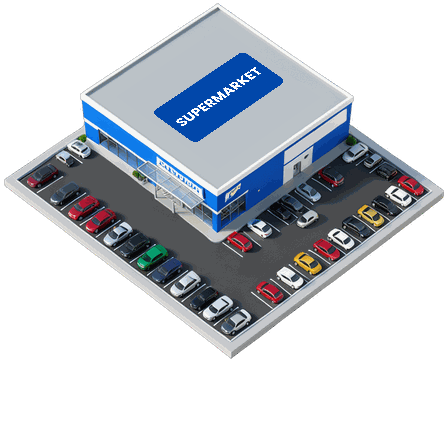
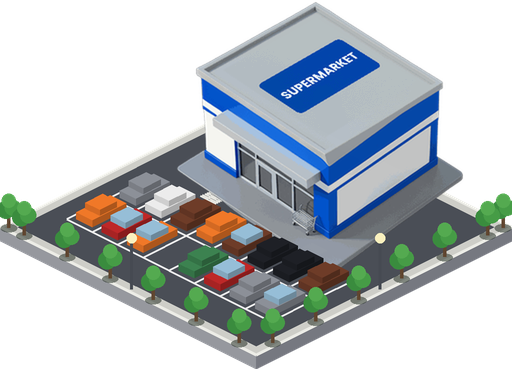
Commerces : parcelle dessinée en vrai 2:1 (drugstore 2x2, supermarché 2x2, hypermarché 3x3), bâtiments seuls bat_*, parcelle.py
Claude-Session: https://claude.ai/code/session_01GArnKYW6kkDaRqVDc5pfp5

diff --git a/tools/factory_ai/parcelle.py b/tools/factory_ai/parcelle.py
@@ -1,0 +1,189 @@
+#!/usr/bin/env python3
+"""Compose un bâtiment seul (assets/factory_hd/bat_<nom>.png) sur une parcelle dessinée en vrai 2:1.
+
+Usage : python3 parcelle.py <nom> <cases> <v0> <v1> [graine]
+  nom   : drugstore | supermarche | hypermarche (lit bat_<nom>.png, écrit <nom>.png, ombres/, ancres.json)
+  cases : côté de la parcelle en cases (losange de cases*256 x cases*128, rapport exactement 2:1)
+  v0 v1 : bande occupée par le bâtiment, en fraction du côté (0 = coin haut)
+"""
+import sys, os, json, random, math
+import numpy as np
+from PIL import Image, ImageDraw, ImageFilter
+
+ICI = os.path.dirname(os.path.abspath(__file__))
+D = os.path.join(ICI, '..', '..', 'assets', 'factory_hd')
+CASE_W = 256          # largeur d'une case (losange 2:1, comme la ville)
+SS = 2                # suréchantillonnage pour des bords nets
+
+
+def main():
+    nom, cases, v0, v1 = sys.argv[1], int(sys.argv[2]), float(sys.argv[3]), float(sys.argv[4])
+    graine = int(sys.argv[5]) if len(sys.argv) > 5 else 7
+    rnd = random.Random(graine)
+    bat = Image.open(os.path.join(D, 'bat_' + nom + '.png')).convert('RGBA')
+    bb = bat.getchannel('A').point(lambda v: 255 if v > 40 else 0).getbbox()
+    bat = bat.crop(bb)
+
+    Wd, Hd = cases * CASE_W, cases * CASE_W // 2          # losange exact 2:1
+    T = 14                                                # épaisseur de la dalle
+    u0, u1 = 0.05, 0.95
+    # largeur écran de l'emprise du bâtiment : (du + dv) * Wd / 2
+    fw = ((u1 - u0) + (v1 - v0)) * Wd / 2
+    k = fw * 0.86 / bat.width
+    bat = bat.resize((max(1, round(bat.width * k)), max(1, round(bat.height * k))), Image.LANCZOS)
+    haut = bat.height + 20                                # marge au-dessus du losange pour le bâtiment
+    W = Wd
+    H = int(haut + Hd + T)
+    yt = haut                                             # sommet haut du losange dans l'image
+    cx = W / 2
+
+    def P(u, v, z=0):
+        return ((cx + (u - v) * Wd / 2) * SS, (yt + (u + v) * Hd / 2 - z) * SS)
+
+    def poly(d, pts, fill, outline=None):
+        d.polygon(pts, fill=fill, outline=outline)
+
+    img = Image.new('RGBA', (W * SS, H * SS), (0, 0, 0, 0))
+    d = ImageDraw.Draw(img)
+
+    # dalle : flancs (bas-gauche et bas-droit)
+    L, B, R = P(0, 1), P(1, 1), P(1, 0)
+    dn = lambda p, t=T: (p[0], p[1] + t * SS)
+    poly(d, [L, B, dn(B), dn(L)], (150, 152, 158, 255))
+    poly(d, [B, R, dn(R), dn(B)], (118, 120, 128, 255))
+
+    # trottoir (bordure) puis chaussée
+    poly(d, [P(0, 0), P(1, 0), P(1, 1), P(0, 1)], (206, 206, 200, 255))
+    m = 0.035
+    poly(d, [P(m, m), P(1 - m, m), P(1 - m, 1 - m), P(m, 1 - m)], (74, 78, 86, 255))
+    # liseré de bordure
+    for (a, b) in [((0, 0), (1, 0)), ((1, 0), (1, 1)), ((1, 1), (0, 1)), ((0, 1), (0, 0))]:
+        d.line([P(*a), P(*b)], fill=(236, 236, 230, 255), width=3 * SS)
+
+    # zone de stationnement : v de v1+marge à 1-m
+    va, vb = v1 + 0.05, 1 - m - 0.025
+    ua, ub = u0, u1
+    bay = 0.20 / cases
+    car_l = 0.34 / cases                  # longueur d'une place en unités v
+    aisle = 0.36 / cases
+    # rangées : [rang de places][allée][rang de places] répétées
+    rows = []
+    v = va
+    while v + car_l <= vb:
+        rows.append(v)
+        v += car_l
+        if len(rows) % 2 == 0:
+            v += aisle
+    # lignes de places
+    wl = (236, 236, 236, 255)
+    nb = int((ub - ua) / bay)
+    ua = ua + ((ub - ua) - nb * bay) / 2
+    for vr in rows:
+        for i in range(nb + 1):
+            u = ua + i * bay
+            d.line([P(u, vr), P(u, vr + car_l)], fill=wl, width=2 * SS)
+        d.line([P(ua, vr + car_l), P(ua + nb * bay, vr + car_l)], fill=wl, width=2 * SS)
+    # passages piétons vers le bâtiment (bandes blanches)
+    for uc in (0.30, 0.70):
+        for j in range(5):
+            vv = v1 + 0.005 + j * 0.008
+            d.line([P(uc - 0.03, vv), P(uc + 0.03, vv)], fill=(230, 230, 224, 255), width=2 * SS)
+
+    # ombre portée du bâtiment (sur la chaussée)
+    # (l'ombre finale est calculée à part)
+
+    # bâtiment : base posée au centre de l'emprise
+    fx = cx + ((u0 + u1) / 2 - (v0 + v1) / 2) * Wd / 2
+    fy = yt + (u1 + v1) * Hd / 2 - 4
+    bx, by = round(fx - bat.width / 2), round(fy - bat.height)
+    img_b = Image.new('RGBA', img.size, (0, 0, 0, 0))
+    img_b.alpha_composite(bat.resize((bat.width * SS, bat.height * SS), Image.LANCZOS), (bx * SS, by * SS))
+
+    # voitures (cubes iso), triées par profondeur
+    pal = [(236, 236, 236), (30, 32, 38), (140, 144, 152), (190, 40, 40), (40, 80, 170), (220, 190, 50),
+           (60, 130, 80), (200, 200, 205), (110, 60, 40), (240, 120, 40)]
+    cars = []
+    for vr in rows:
+        for i in range(nb):
+            if rnd.random() < 0.72:
+                cars.append((ua + i * bay + bay * 0.5, vr + car_l * 0.5, rnd.choice(pal)))
+    cars.sort(key=lambda c: c[0] + c[1])
+    img_c = Image.new('RGBA', img.size, (0, 0, 0, 0))
+    dc = ImageDraw.Draw(img_c)
+
+    def shade(c, f):
+        return tuple(max(0, min(255, int(x * f))) for x in c) + (255,)
+
+    def box(u, v, du, dv, z0, z1, col):
+        a0, a1, b0, b1 = u - du / 2, u + du / 2, v - dv / 2, v + dv / 2
+        # faces visibles : dessus, face u max (bas-droite), face v max (bas-gauche)
+        poly(dc, [P(a1, b0, z0), P(a1, b1, z0), P(a1, b1, z1), P(a1, b0, z1)], shade(col, 0.72))
+        poly(dc, [P(a0, b1, z0), P(a1, b1, z0), P(a1, b1, z1), P(a0, b1, z1)], shade(col, 0.88))
+        poly(dc, [P(a0, b0, z1), P(a1, b0, z1), P(a1, b1, z1), P(a0, b1, z1)], shade(col, 1.0))
+
+    gl = (150, 190, 215)
+    for (u, v, col) in cars:
+        box(u, v, bay * 0.62, car_l * 0.78, 0, 7, col)
+        box(u, v + 0.0, bay * 0.56, car_l * 0.40, 7, 13, gl if rnd.random() < 0.5 else col)
+
+    # arbres le long du trottoir
+    def arbre(u, v, r=9):
+        x, y = P(u, v, 0)
+        dc.ellipse([x - r * SS * 0.9, y - r * SS * 0.35, x + r * SS * 0.9, y + r * SS * 0.5], fill=(40, 50, 40, 140))
+        dc.rectangle([x - 1.5 * SS, y - 11 * SS, x + 1.5 * SS, y], fill=(96, 70, 48, 255))
+        for dx, dy, rr, c in [(-3, -18, r, (58, 140, 62)), (4, -20, r - 1, (70, 156, 70)), (0, -27, r - 2, (84, 170, 80))]:
+            dc.ellipse([x + (dx - rr) * SS, y + (dy - rr) * SS, x + (dx + rr) * SS, y + (dy + rr) * SS], fill=c + (255,))
+
+    pts = []
+    n_arb = 2 * cases + 2
+    for i in range(n_arb):
+        t = 0.08 + 0.84 * i / max(1, n_arb - 1)
+        pts.append((t, 0.985))      # bord bas-gauche  (v ~ 1)
+        pts.append((0.985, t))      # bord bas-droit   (u ~ 1)
+    pts += [(0.985, 0.02), (0.02, 0.985)]
+    pts.sort(key=lambda p: p[0] + p[1])
+    for (u, v) in pts:
+        arbre(u, v)
+    # lampadaires
+    for (u, v) in [(0.5, 0.985), (0.985, 0.5)]:
+        x, y = P(u, v, 0)
+        dc.line([(x, y), (x, y - 50 * SS)], fill=(70, 74, 82, 255), width=3 * SS)
+        dc.ellipse([x - 5 * SS, y - 56 * SS, x + 5 * SS, y - 46 * SS], fill=(250, 240, 190, 255))
+
+    out = img.copy()
+    out.alpha_composite(img_b)
+    out.alpha_composite(img_c)
+    out = out.resize((W, H), Image.LANCZOS)
+
+    # recadrage sur le contenu en gardant le centre du losange comme ancre
+    ancre = (W / 2, yt + Hd / 2)
+    a = out.getchannel('A').getbbox()
+    out = out.crop((0, a[1], W, a[3]))
+    ancre = (ancre[0], ancre[1] - a[1])
+    out.save(os.path.join(D, nom + '.png'), optimize=True)
+
+    # ombre portée (même méthode que batch.ombre_auto)
+    sys.path.insert(0, os.path.join(ICI))
+    spr = out
+    w, h = spr.size
+    al = spr.getchannel('A')
+    hh = max(1, round(h * 0.42))
+    plat = al.resize((w, hh), Image.BILINEAR)
+    marge = round(h * 0.45)
+    toile = Image.new('L', (w + marge, h), 0)
+    cis = plat.transform((w + marge, hh), Image.AFFINE, (1, 0.95, -marge * 0.98, 0, 1, 0), Image.BILINEAR)
+    toile.paste(cis, (0, round(ancre[1]) - hh + 4))
+    toile = toile.crop((0, 0, w, h)).filter(ImageFilter.GaussianBlur(3))
+    z = np.zeros((h, w), 'uint8')
+    om = Image.fromarray(np.dstack([z, z, z, (np.asarray(toile) * 0.42).astype('uint8')]), 'RGBA')
+    om.save(os.path.join(D, 'ombres', nom + '.png'))
+
+    A = json.load(open(os.path.join(D, 'ancres.json')))
+    A[nom + '.png'] = {'largeur': w, 'hauteur': h, 'ancre_x': round(ancre[0]), 'ancre_y': round(ancre[1]),
+              'echelle_px_par_m': 64.0, 'emprise_px': Wd, 'emprise_cases': cases}
+    json.dump(A, open(os.path.join(D, 'ancres.json'), 'w'), indent=1)
+    print(nom, 'ok', (w, h), 'losange', (Wd, Hd), 'ancre', ancre)
+
+
+if __name__ == '__main__':
+    main()

diff --git a/tools/factory_ai/build_manifest.py b/tools/factory_ai/build_manifest.py
@@ -170,7 +170,6 @@ n('transpalette', 'red hand pallet truck', **P)
 n('extincteur', 'red fire extinguisher on a floor stand', largeur=128, contenu=40)
 n('armoire_electrique', 'grey electrical cabinet with warning sign and indicator lights', largeur=128, contenu=80)
 n('panneau_securite', 'yellow triangular safety warning sign on a post, pictogram only', largeur=128, contenu=50)
-n('lampe_plafond_suspendue', 'industrial pendant ceiling lamp hanging from a cable, lit', largeur=128, contenu=90)
 
 # ------------------------------------------------------------------ lot 3 (textile et maroquinerie)
 n('machine_a_coudre_industrielle', 'industrial sewing machine on a sturdy grey work table with a foot pedal, a bobbin of thread and a piece of blue fabric under the needle, smooth glossy toy-like 3D miniature, strong readable silhouette', largeur=160, contenu=150, lot='lot3')
@@ -247,6 +246,12 @@ n('gratte_ciel_40_etages_a', 'very tall office skyscraper with forty floors, a s
 n('gratte_ciel_40_etages_b', 'very tall office skyscraper with forty floors, a slender tower of dark steel and glass with gold accents, a stepped crown with a helipad, a grand lobby, whole building standing alone on a small square plot with pavement and a few trees at its base, smooth glossy toy-like 3D miniature, strong readable silhouette, seen from high above in isometric view, no lettering, no flags', largeur=384, contenu=376, hauteur=1400, hobj=1360, lot='lot9', gen=(448, 1600))
 n('gratte_ciel_60_etages_a', 'extremely tall and very slim supertall skyscraper with sixty floors, a thin needle-like tower of white and blue glass, tapering upward, topped with a tall antenna spire, a large lobby at the base, whole building standing alone on a small square plot with pavement and a few trees at its base, smooth glossy toy-like 3D miniature, strong readable silhouette, seen from high above in isometric view, no lettering, no flags', largeur=384, contenu=376, hauteur=2000, hobj=1960, lot='lot9', gen=(352, 1840))
 n('gratte_ciel_60_etages_b', 'extremely tall and very slim supertall skyscraper with sixty floors, a thin elegant tower of graphite glass with silver bands, tapering upward, topped with a very tall antenna mast, a grand lobby at the base, whole building standing alone on a small square plot with pavement and a few trees at its base, smooth glossy toy-like 3D miniature, strong readable silhouette, seen from high above in isometric view, no lettering, no flags', largeur=384, contenu=376, hauteur=2000, hobj=1960, lot='lot9', gen=(352, 1840))
+
+
+# ------------------------------------------------------------------ lot 10 : bâtiments seuls (la parcelle 2:1 est dessinée par parcelle.py)
+n('bat_drugstore', 'large modern drugstore and health superstore selling medicines and food supplements: a wide two-storey white and green rectangular building with a huge glass storefront showing shelves of colourful vitamin boxes, a green plus-shaped cross sign on the facade, an entrance with a green canopy, a modern single-pitch (mono-pitch) roof made of one plain smooth light grey plane that slopes gently upward from the front corner at the bottom of the image towards the back corner at the top of the image, a clean overhanging roof edge, nothing on the roof, no ground, no plot, no car park, no cars, no trees, nothing around it, only the building itself with a flat plain base, smooth glossy toy-like 3D miniature, strong readable silhouette, seen from high above in isometric view, no lettering, no flags', largeur=384, contenu=370, lot='lot10')
+n('bat_supermarche', 'large modern supermarket in the style of a big American discount retail chain: a wide rectangular building with blue and white facade, a big glass entrance with a canopy and a trolley shelter, a modern single-pitch (mono-pitch) roof made of one plain smooth light grey plane that slopes gently upward from the front corner at the bottom of the image towards the back corner at the top of the image, a clean overhanging roof edge, nothing on the roof, no ground, no plot, no car park, no cars, no trees, nothing around it, only the building itself with a flat plain base, smooth glossy toy-like 3D miniature, strong readable silhouette, seen from high above in isometric view, no lettering, no flags', largeur=448, contenu=436, lot='lot10')
+n('bat_hypermarche', 'huge modern hypermarket in the style of a big European hypermarket chain: a very large rectangular blue and white building with a wide glass entrance hall and a loading dock with a truck on one side, a modern single-pitch (mono-pitch) roof made of one plain smooth light grey plane that slopes gently upward from the front corner at the bottom of the image towards the back corner at the top of the image, a clean overhanging roof edge, nothing on the roof, no ground, no plot, no car park, no cars, no trees, nothing around it, only the building itself with a flat plain base, smooth glossy toy-like 3D miniature, strong readable silhouette, seen from high above in isometric view, no lettering, no flags', largeur=576, contenu=560, lot='lot10')
 
 json.dump({'sprites': M, 'planches': PLANCHES,
            'test': ['camion_rouge_ouvert', 'machine_assemblage', 'poses/ouvrier_gilet_orange_porte_carton']},
